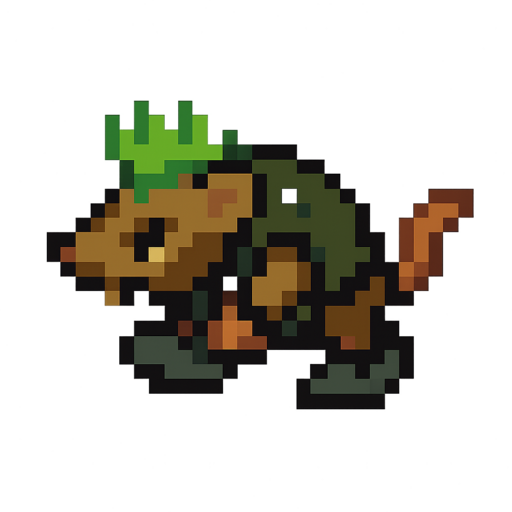
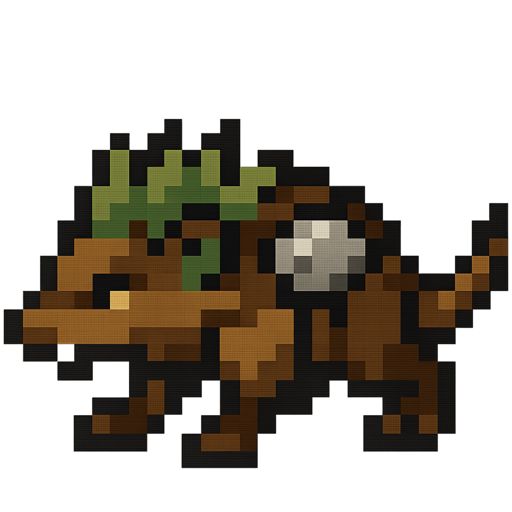
Clubhouse request (automated) — PR #20

diff --git a/games/dog-punk/app.js b/games/dog-punk/app.js
@@ -59,6 +59,25 @@
 // `state.enemies` directly plus cropped canvas screenshots — facing/
 // mirroring for both Beverly and the rats is correct in every direction
 // (this was NOT actually still broken; re-confirmed, not re-fixed).
+//
+// 2026-08-19 — found the actual root cause of the recurring "art looks
+// wrong/different" reports for hero_up_walk2.png and rat_side_walk2.png
+// specifically: the in-run art generator's automatic per-game styling only
+// ever sent this file's `camera`/`style`/`palette`/`background`/`constraints`
+// fields to the model, never the locked-hex-palette `mainCharacter`/`enemy`
+// fields below — so unless a prior pass happened to retype the exact locked
+// palette into that one generation's own prompt, the model was free to
+// improvise fur/jacket/tail colors from scratch each time, which is exactly
+// why hero_up_walk2 came out as a different-looking creature (no visible
+// face, wrong palette, missing shield/dagger) than hero_up, and rat_side_
+// walk2 came out olive-green instead of rat_side's brown. Regenerated both,
+// this time with the full locked palette spelled out explicitly in the
+// generation prompt itself (not just relying on art-style.json being read
+// automatically) — both now visibly match their sibling frame's colors and
+// silhouette. No code changes were needed for the sprites to be *used*: the
+// walk-cycle swap logic below was already correct (loads all 8 PNGs, swaps
+// on `animPhase`, falls back to canvas if any fail to load) — the sprites
+// were being shown, they just alternated between two mismatched drawings.
 const GAME_ID = "dog-punk";
 const TILE = 32;
 const COLS = 16;

diff --git a/games/dog-punk/sw.js b/games/dog-punk/sw.js
@@ -1,6 +1,6 @@
 importScripts("../../shared/sw-core.js");
 
-GCRegisterServiceWorker("dog-punk-v4", [
+GCRegisterServiceWorker("dog-punk-v5", [
   "./",
   "./index.html",
   "./style.css",
